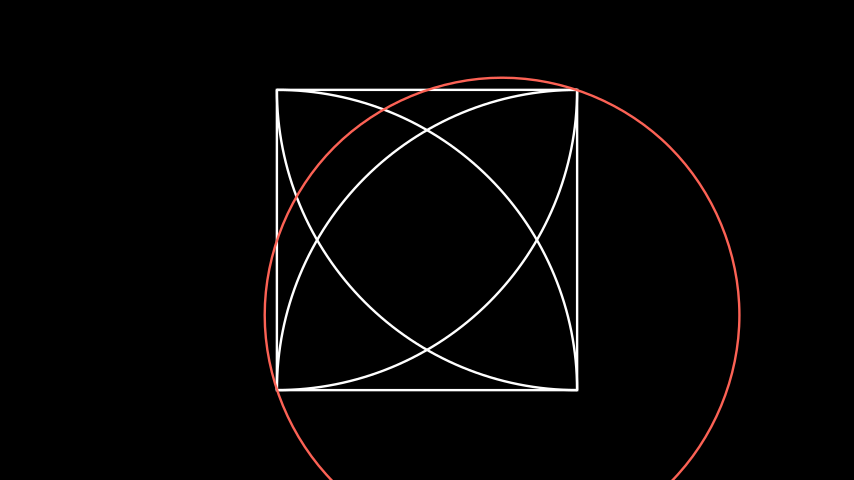
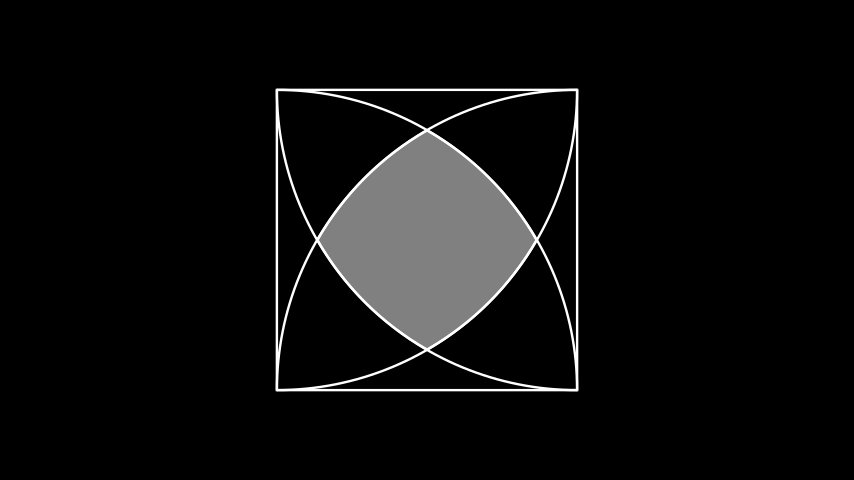
Finished Diagram
After an hour of trying I figured it out

diff --git a/ForVideos/2024/AGeometryProblem/main.py b/ForVideos/2024/AGeometryProblem/main.py
@@ -11,13 +11,17 @@ class ThumbNail(Scene):
         A3 = ArcBetweenPoints(s.get_vertices()[2], s.get_vertices()[0])
         A4 = ArcBetweenPoints(s.get_vertices()[3], s.get_vertices()[1])
 
-        # A point on each line
-        A1point = Point(A1.get_bottom())
+        # Length of a side of a square
+        side = Line(s.get_vertices()[0], s.get_vertices()[1])
 
         # A Circle that makes the arcs mobjects
-        A1mob = Circle.from_three_points(s.get_vertices()[0], s.get_vertices()[2], A1.get_top())
+        A1mob = Circle(radius = side.get_length()).move_to(s.get_vertices()[0])
+        A2mob = Circle(radius = side.get_length()).move_to(s.get_vertices()[1])
+        A3mob = Circle(radius = side.get_length()).move_to(s.get_vertices()[2])
+        A4mob = Circle(radius = side.get_length()).move_to(s.get_vertices()[3])
 
         # Shaded Area
+        ShadedArea = Intersection(A1mob, A2mob, A3mob, A4mob, color = WHITE, fill_opacity = 0.5)
 
-
-        self.add(VGroup(s, A1, A2, A3, A4, A1mob))
+        self.add(VGroup(s, A1, A2, A3, A4))
+        self.add(ShadedArea)
